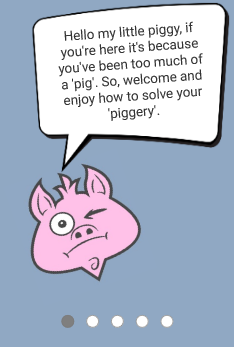
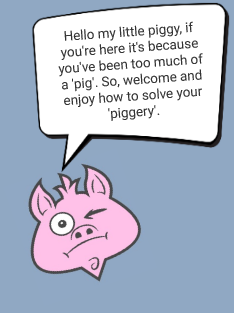
Pantallas Help, a fala de instalar la libreria por error en el yarn

diff --git a/FrontEnd/MotherOut/components/screens/Help1.js b/FrontEnd/MotherOut/components/screens/Help1.js
@@ -7,7 +7,7 @@
  */
 
 import React, {Component} from 'react';
-
+import Swiper from 'react-native-swiper'
 import {ScrollView, StyleSheet, View} from 'react-native';
 
 import {Image} from 'react-native-elements';
@@ -30,42 +30,43 @@ class Help1 extends Component {
     render() {
         return (
             <>
+
                 <View style={styles.container}>
-                    <ScrollView horizontal={true}>
+                    <Swiper>
                         <View style={styles.pictures}>
                             <Image
-                                style={{width: 350, height: 550}}
+                                style={{width: 350, height: 470}}
                                 source={{uri: picture}}
                             />
                         </View>
                         <View style={styles.pictures}>
                             <Image
-                                style={{width: 350, height: 550}}
+                                style={{width: 350, height: 470}}
                                 source={{uri: picture2}}
                             />
                         </View>
                         <View style={styles.pictures}>
                             <Image
-                                style={{width: 350, height: 550}}
+                                style={{width: 350, height: 470}}
                                 source={{uri: picture3}}
                             />
                         </View>
                         <View style={styles.pictures}>
                             <Image
-                                style={{width: 350, height: 550}}
+                                style={{width: 350, height: 470}}
                                 source={{uri: picture4}}
                             />
                         </View>
                         <View style={styles.pictures}>
                             <Image
-                                style={{width: 400, height: 590}}
+                                style={{width: 350, height: 470}}
                                 source={{uri: picture5}}
                             />
-                            <View>
+                            <View style={{marginTop:75}}>
                                 <GenericButton button={'Skipt!'} press={() => this.props.navigation.navigate('CreateOrJoinTeam')} />
                             </View>
                         </View>
-                    </ScrollView>
+                    </Swiper>
                 </View>
 
             </>
@@ -83,7 +84,7 @@ const styles = StyleSheet.create({
         backgroundColor: '#90A8C3',
     },
     pictures: {
-        padding: 5,
+        padding: 5
     },
 });
 
